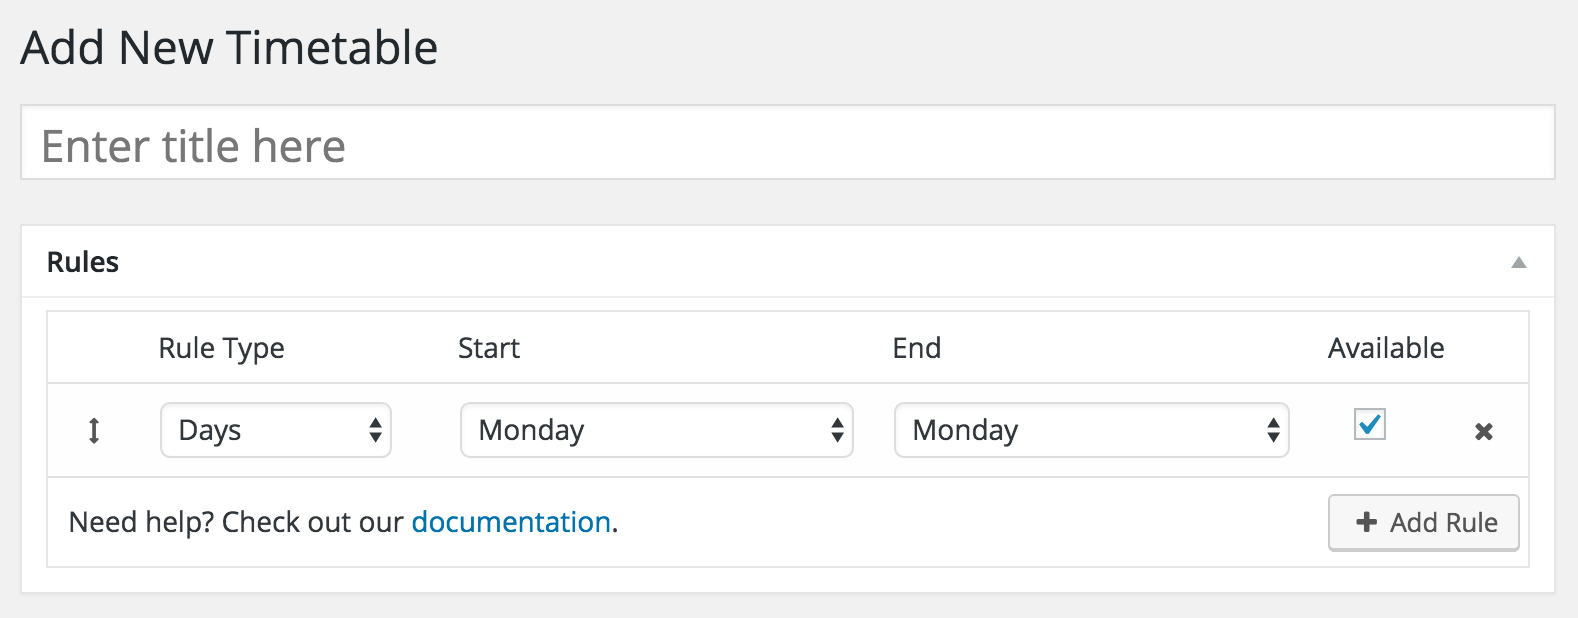
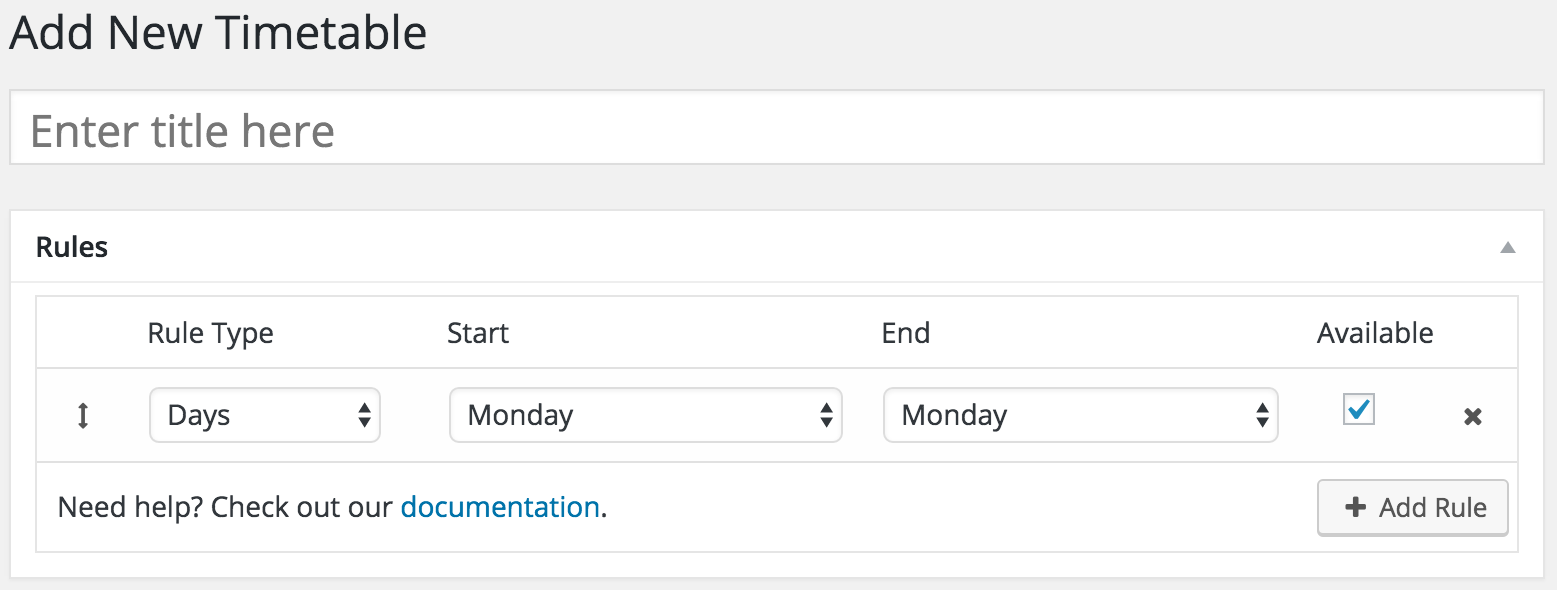
Alignment of add timetable section in getting started (EDDBOOK-55)
EDDBOOK-55 #time 15m

diff --git a/views/about/getting-started.php b/views/about/getting-started.php
@@ -83,8 +83,9 @@
 
 <hr/>
 
-<div class="feature-section one-col">
+<div class="feature-section">
     <h3><?php _e('Adding and Editing Timetables', $textDomain); ?></h3>
+    
     <div class="two-col-text">
         <h4><?php _e('Adding a Timetable', $textDomain); ?></h4>
         <p>
@@ -93,6 +94,9 @@
                 the one that was automatically created with your first booking.', $textDomain);
             _e('Within each Timetable you\'ll be able to set the Rules for this timetable and also view the Schedules
                     currently making use of this timetable and its rules.', $textDomain);
+            ?>
+            <br/><br/>
+            <?php
             _e(sprintf('You can find more information on how to set up the Timetable Rules <a %s>in our
                 documentation</a>', 'href="http://docs.easydigitaldownloads.com/category/1100-bookings" target="_blank"'),
                     $textDomain);
@@ -102,7 +106,7 @@
             <img src="<?php echo EDD_BK_IMGS_URL; ?>add-new-timetable.png" />
         </p>
     </div>
-    <div>
+    <div class="col">
         <h4><?php _e('Editing a Timetable', $textDomain); ?></h4>
         <p>
             <img src="<?php echo EDD_BK_IMGS_URL; ?>edit-timetable.png" />
